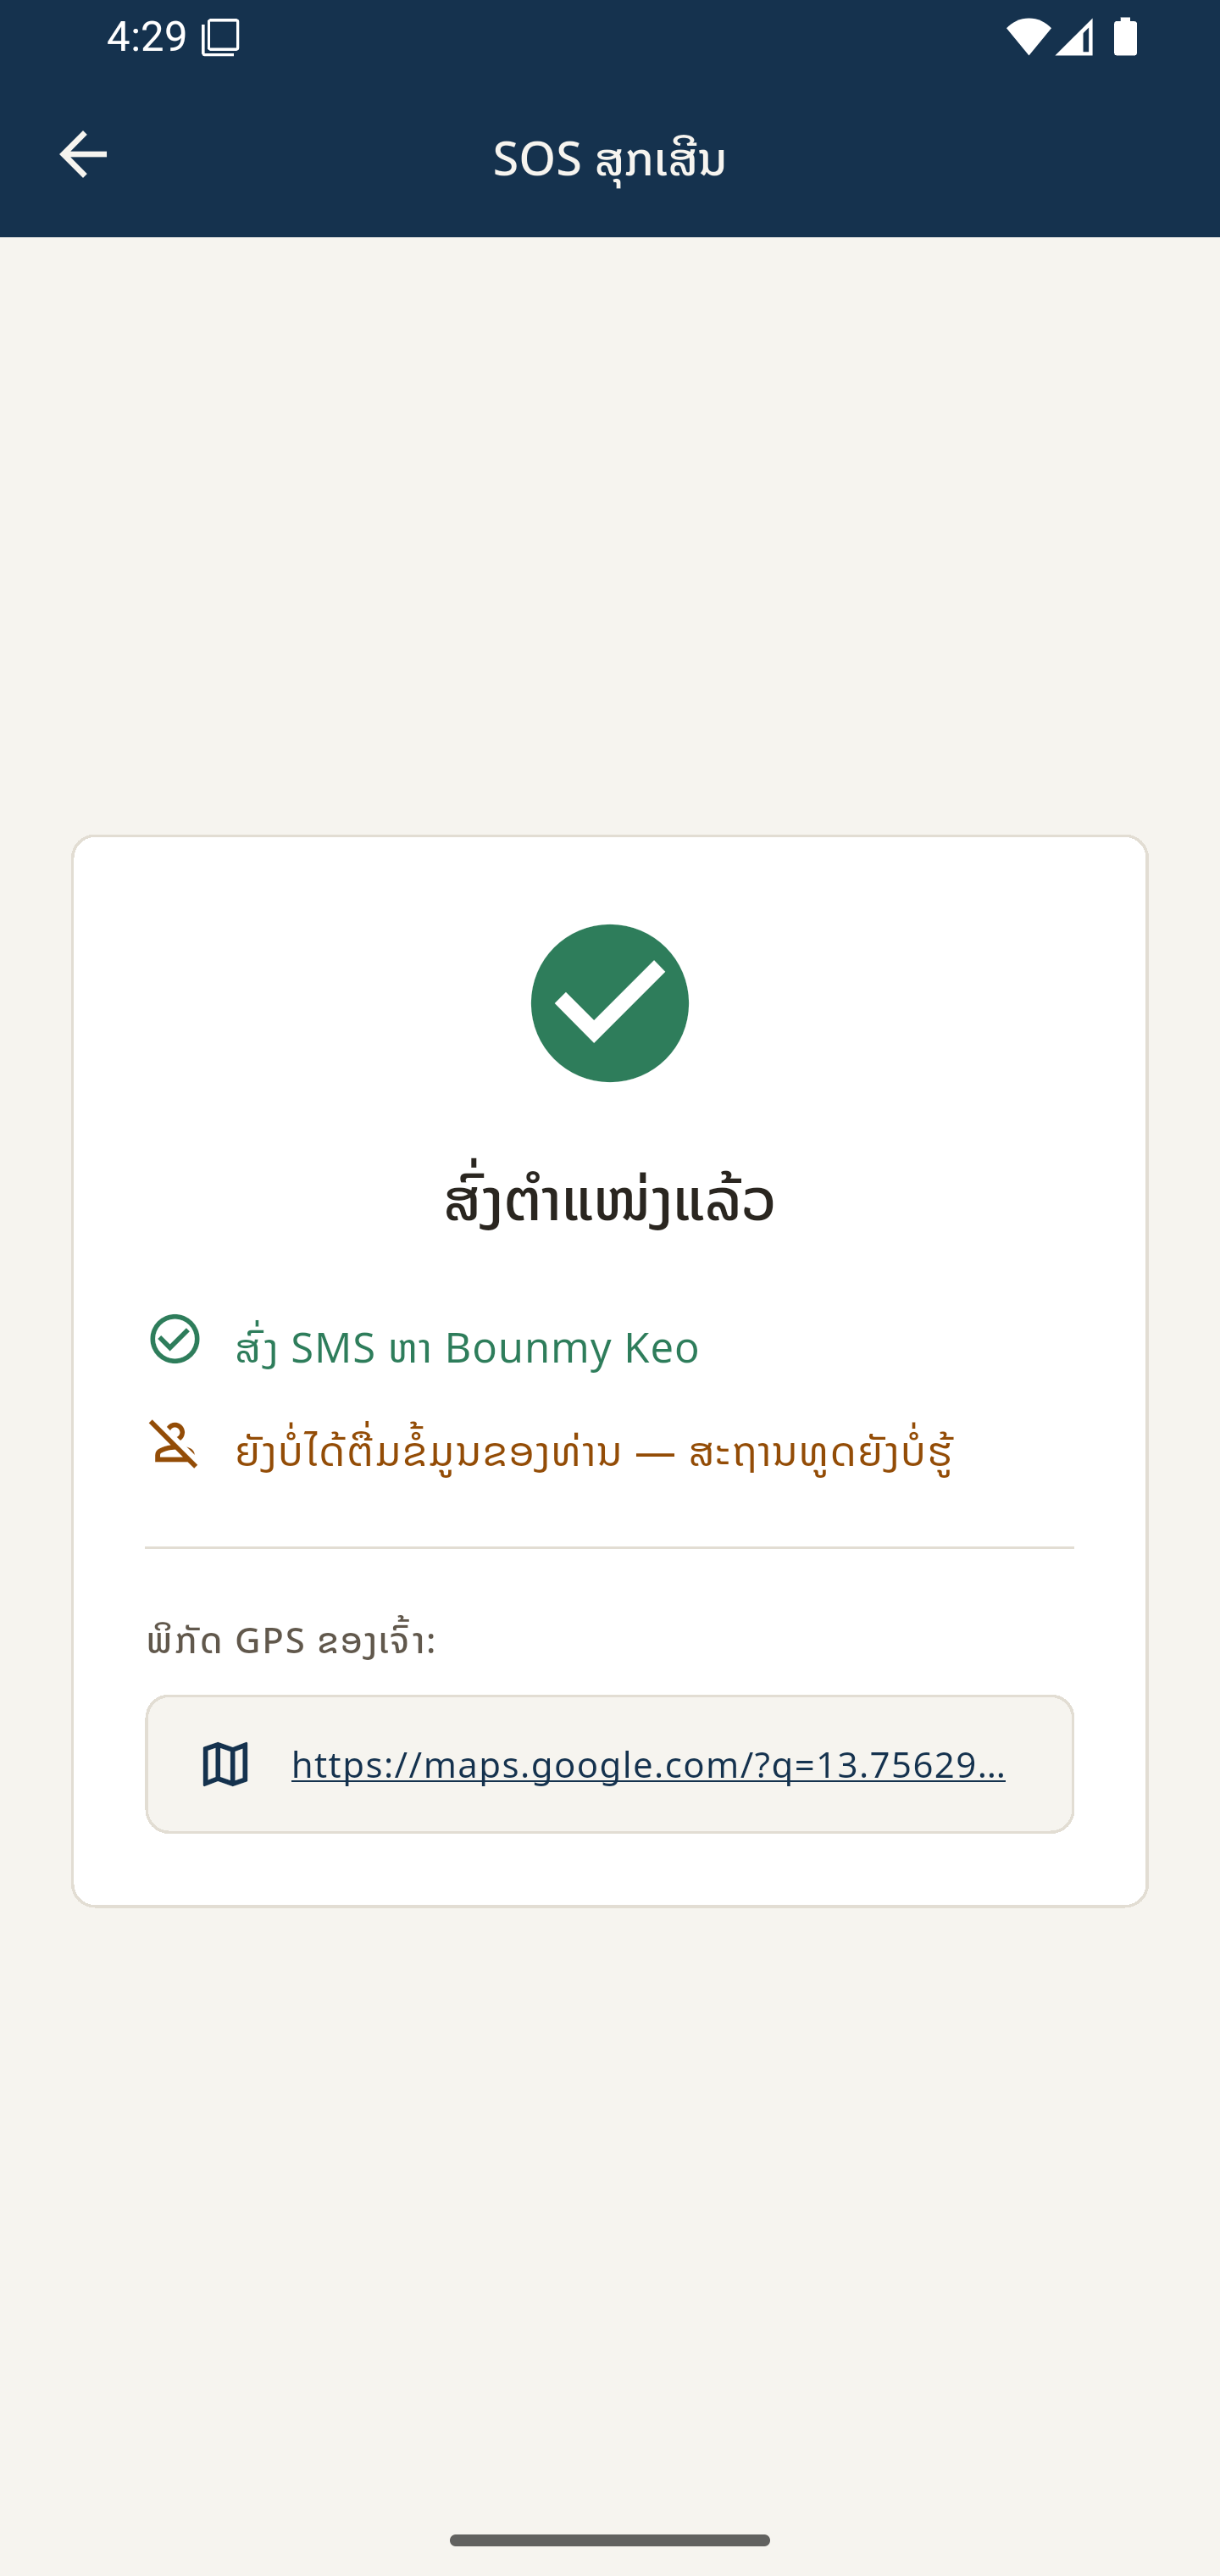
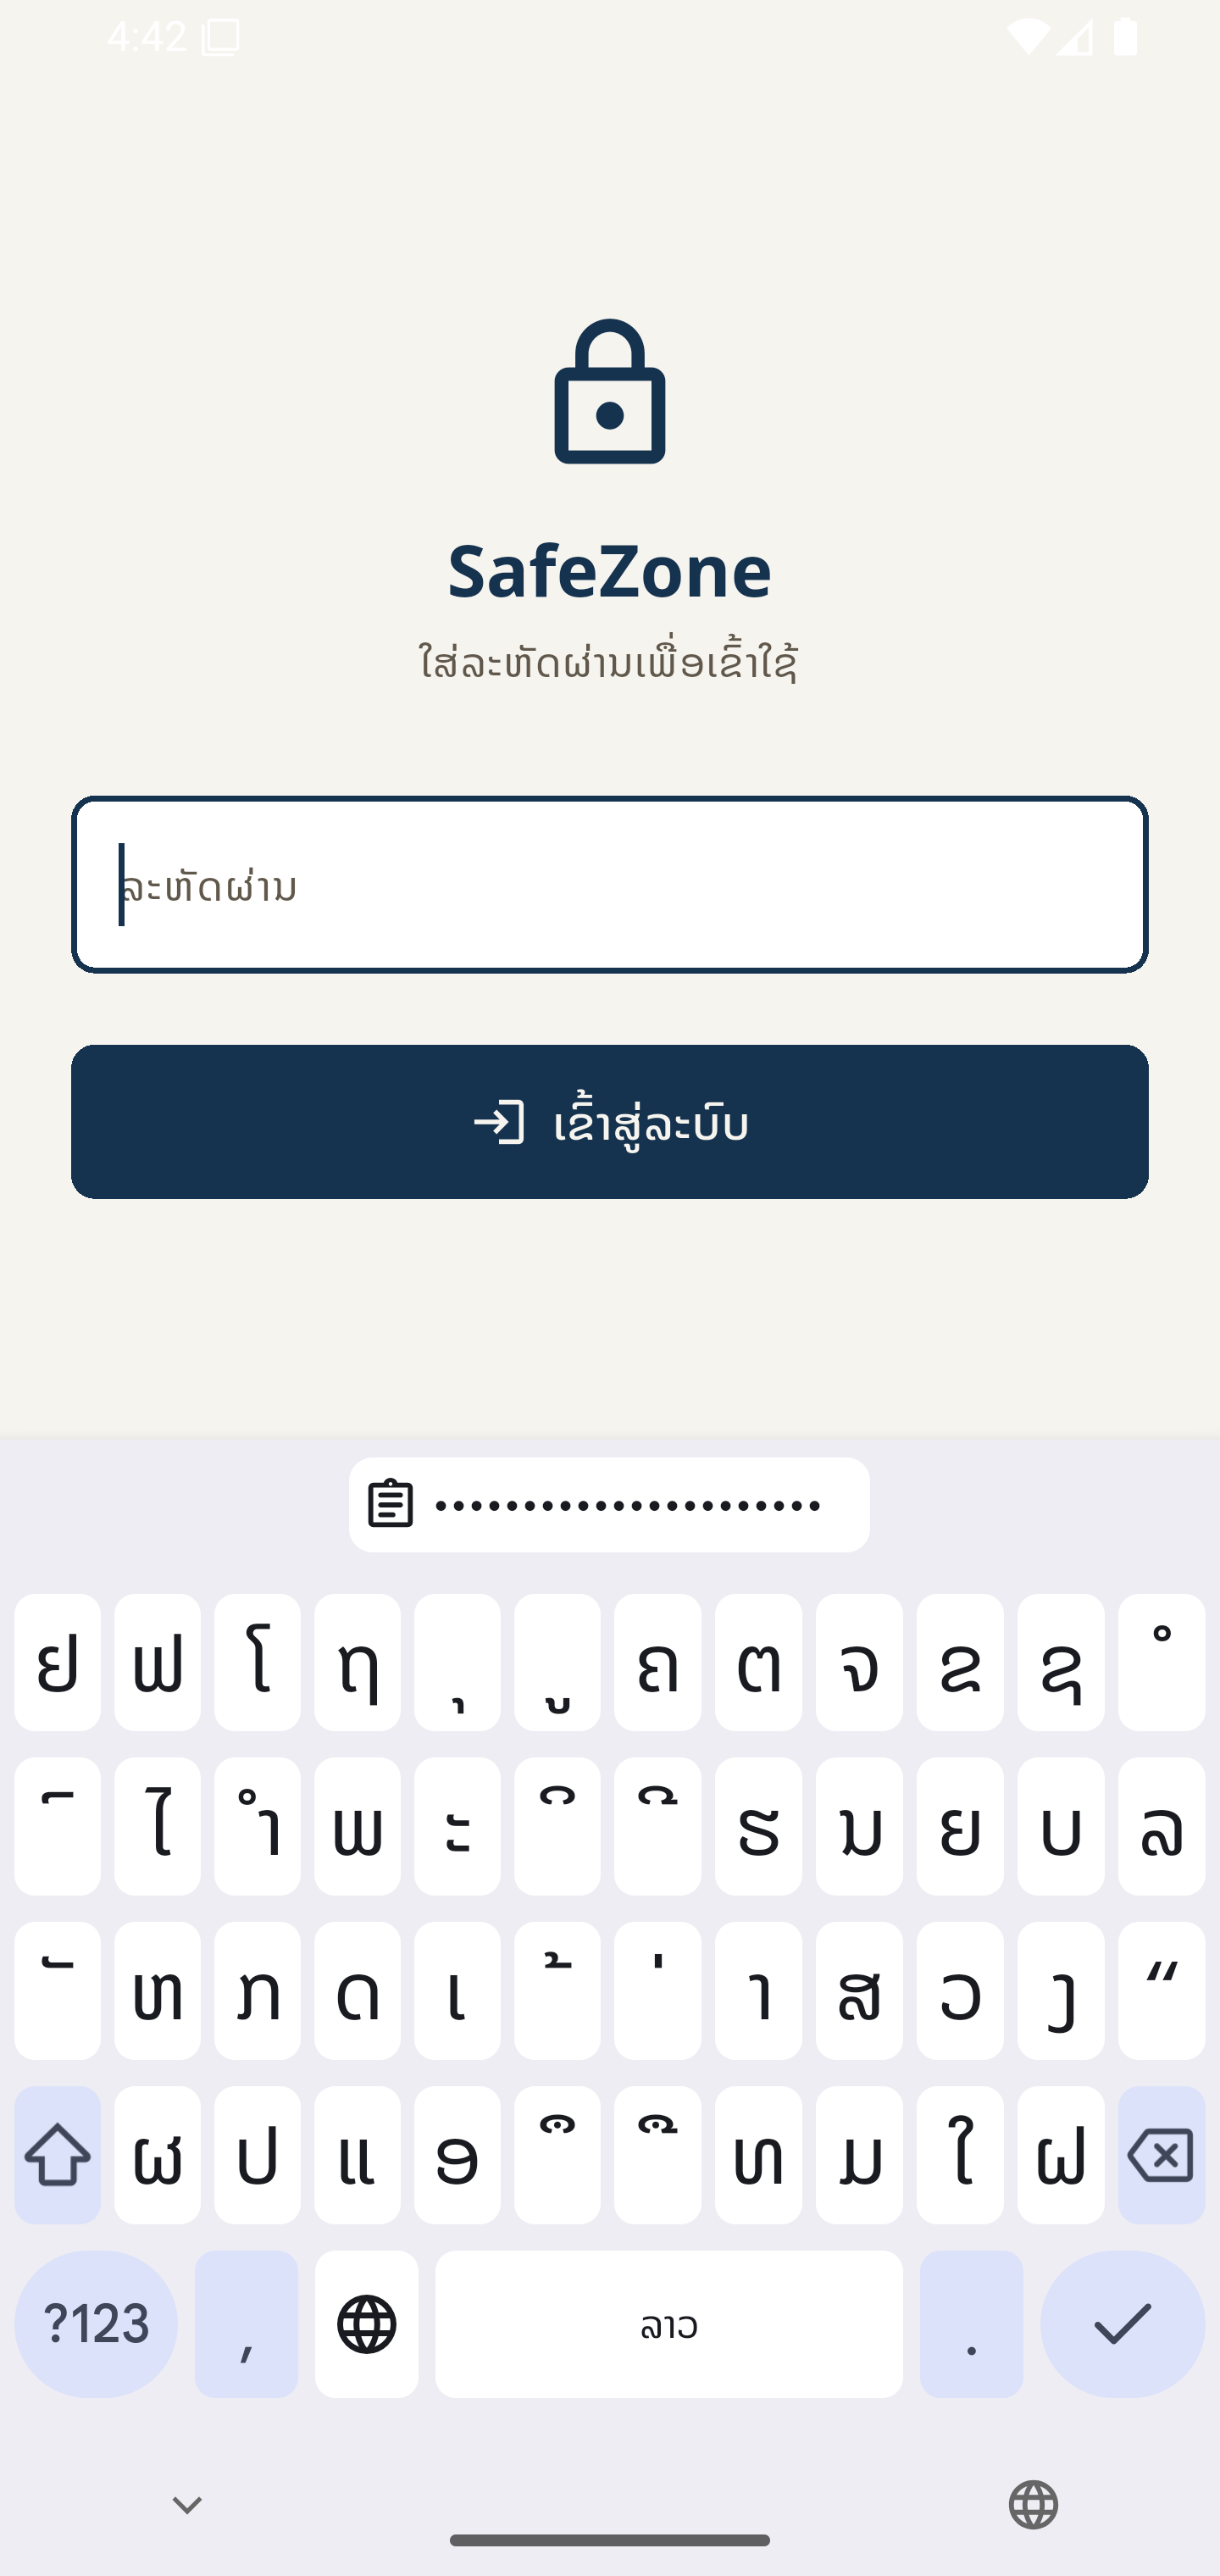
Add lockout and vault check descriptions for mobile app
- Introduced a new file for login lockout behavior, detailing the cooldown mechanism after consecutive failed attempts.
- Added a file for real-vault check, confirming the separation of decoy and real vault upon successful login after lockout.
- Included a new zip file for website resources.

diff --git a/SafeZone_Remaining_Work.md b/SafeZone_Remaining_Work.md
@@ -136,6 +136,37 @@ matrix for #12 (background tracking) and a live run of the #13 photo flow.
   - Settings / account management.
 - **Output:** fix anything that fails; note results here.
 
+**Results (2026-07-19, Android emulator, fresh install, console + Supabase wired
+via `10.0.2.2:3000`; screenshots in `software_result/mobile/01…15`):**
+- ✅ Welcome → setup (real + fake password) → home. Setup-status card updates
+  live (passport/contacts ticks).
+- ✅ Lock / real-password unlock. ✅ Lockout: 5 failures → red countdown
+  (`15-lockout.png`), login blocked until it expires, then real password works.
+- ✅ **Duress login**: decoy vault correct — passport/contact ticks empty,
+  profile prompt hidden — and the silent SOS fired (GPS indicator + SMS
+  composer). Confirmed known limitation #6: the composer opening makes the
+  "silent" alert visible (`13-duress-decoy.png`).
+- ✅ **SOS**: confirm dialog → location permission → result screen; SMS channel
+  launched Google Messages with the prefilled EMERGENCY text + maps link to the
+  trusted contact (`10-sos-*.png`).
+- ⚠️ **SOS server channel never reached the console**: profile verification
+  fails with Supabase **"Unsupported phone provider"** (no SMS provider
+  configured in the Supabase project), so no profile is ever saved →
+  `ServerStatus.noProfile` → `/api/sos` is skipped and the Guardian tab stays
+  gated on verification (`14-profile-verify-error.png`). Needs either an SMS
+  provider in Supabase or a dev bypass to test the console intake end-to-end.
+- ✅ **Passport vault**: gallery pick → "ບັນທຶກພາສປອດແບບ encrypted ແລ້ວ", preview
+  renders, share button present (`08-passport.png`). Camera/MRZ-autofill path
+  not exercised (synthetic image via picker; no camera on emulator).
+- ✅ Trusted contact add (`11-contact.png`). ✅ Report form renders with
+  categories/description/location/GPS toggle/photos (`09-report-form.png`) —
+  submit not exercised.
+- UX nit: the home "ຕື່ມຂໍ້ມູນຂອງທ່ານ" card only navigates via its chevron
+  `IconButton`; the rest of the card is not tappable.
+- Not covered (needs real device / SMS provider): new-device OTP approval, live
+  tracking + #12 background matrix, offline `SosOutbox` queue/flush, report
+  submit → `/admin/reports`, share temp-file cleanup.
+
 ### B. Donation — admin configuration (#14a) ✅ done (2026-07-19)
 Done — see the completion note in the "Already complete" section. `/admin/settings`
 Donation card (embassy-only, audit-logged) with enable toggle, Lao+en title/blurb,